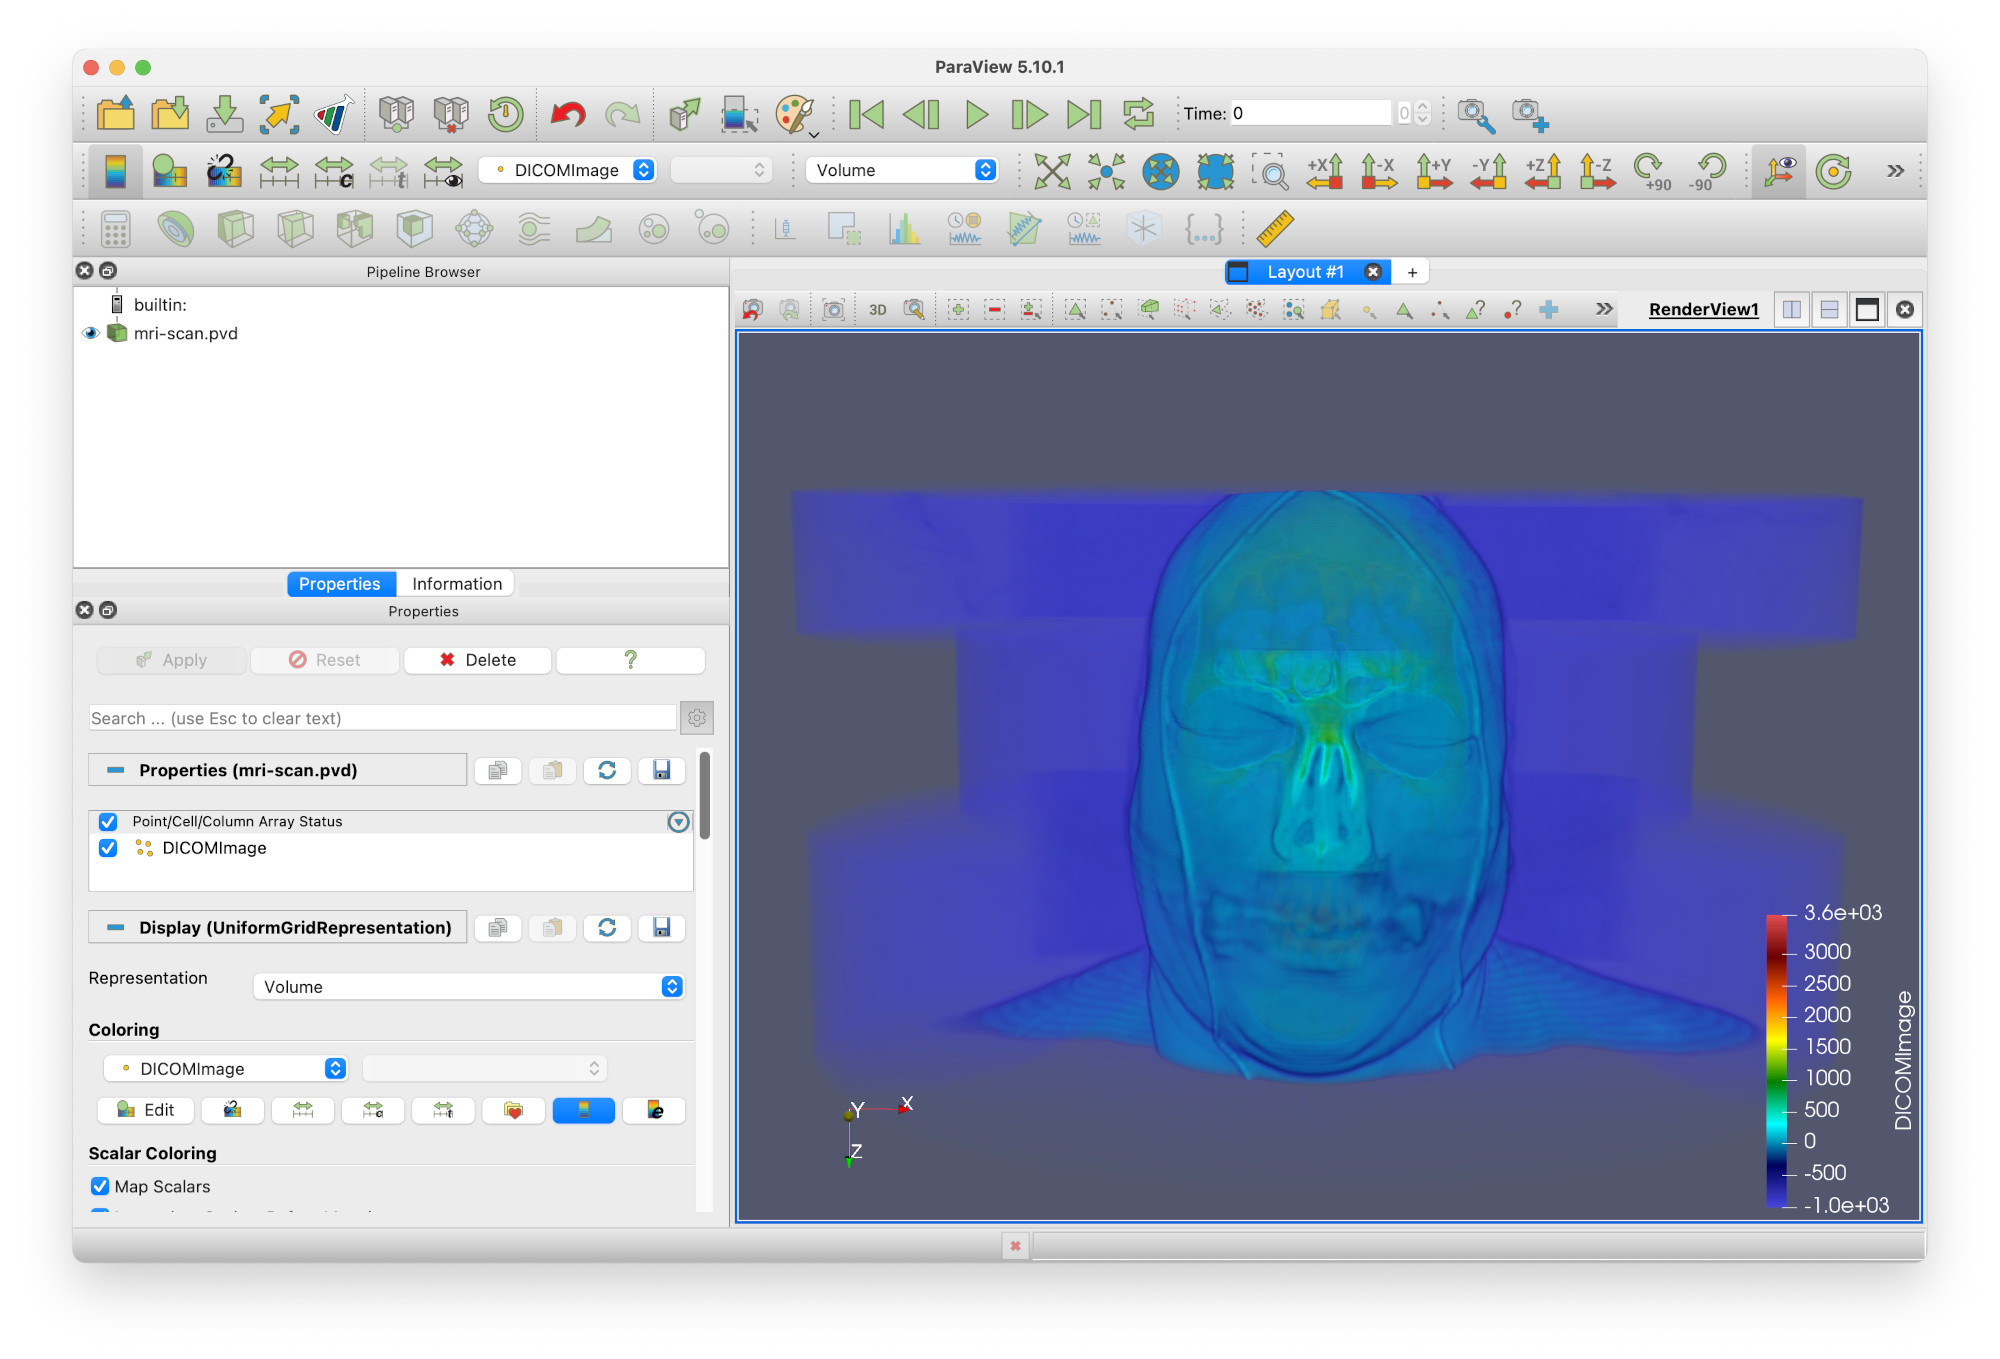
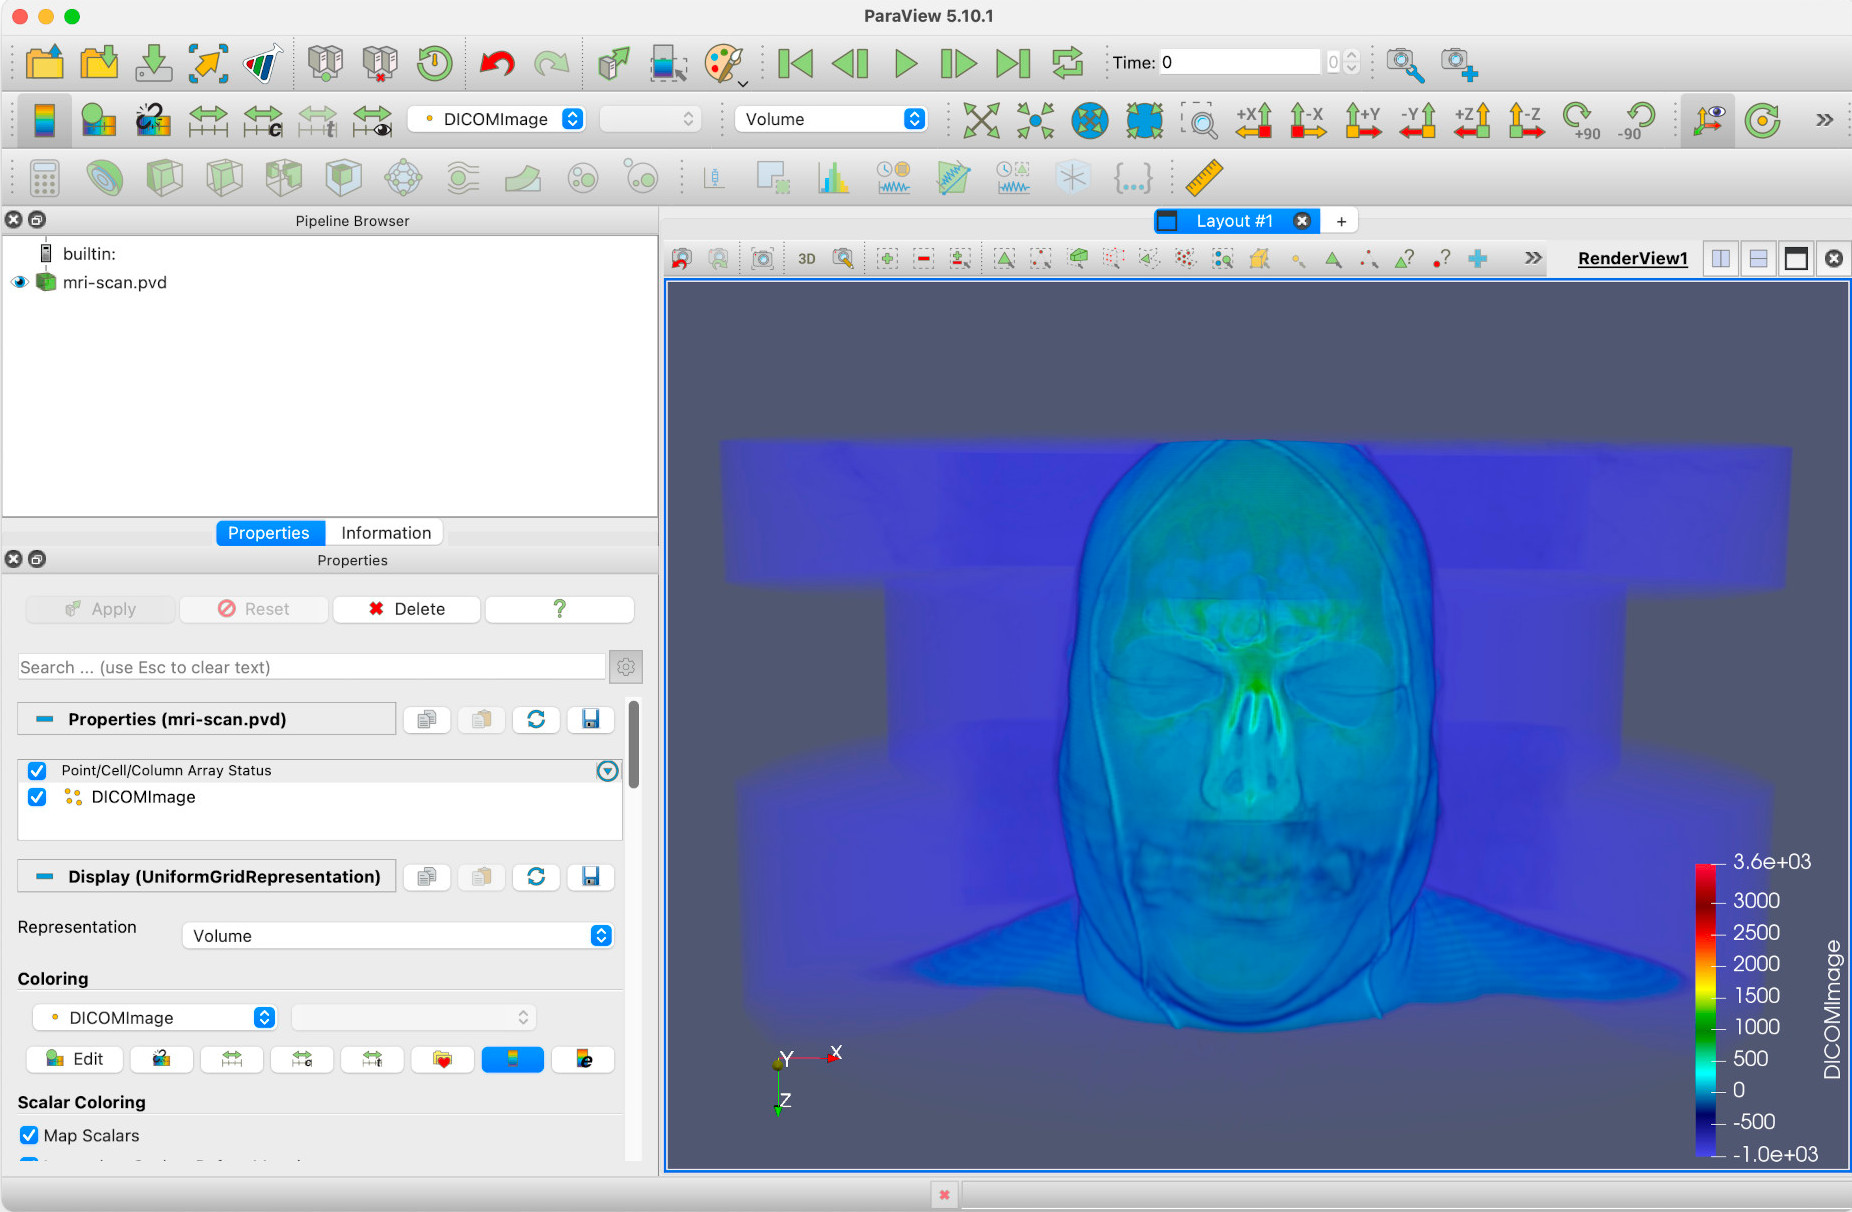
Tidying up on image widths.

diff --git a/_episodes/06-work-with-data-introduction.md b/_episodes/06-work-with-data-introduction.md
@@ -25,14 +25,14 @@ You should see a wireframe box. We'll need to change the rendering to
 **Volume**. In the toolbar, you'll see a drop-down menu that currently says
 **Outline**. Select **Volume** from this menu.
 
-![MRI scan volume selected]({{ page.root }}/fig/mri-volume-selected.jpg){: width="85%" }
+![MRI scan volume selected]({{ page.root }}/fig/mri-volume-selected.jpg){: width="95%" }
 
 Zooming in a bit, you should have a view of the head clearly. Changing the
 colormap to **Rainbow Desaturated** (See the 'Introducing filters' episode,
 under *Changing the colormap*), and turning on the colormap legend, you
 should see something similar to this.
 
-![MRI with rainbow desaturated colormap]({{ page.root }}/fig/mri-colormap-legend.jpg){: width="85%" }
+![MRI with rainbow desaturated colormap]({{ page.root }}/fig/mri-colormap-legend.jpg){: width="95%" }
 
 As the render type *Volume* suggests, this is a full volumetric render of
 3D data. DICOM, incidentally, stands for *Digital Imaging and Communications
@@ -52,7 +52,7 @@ Let's suppose we want to get the horizontal dimensions of the head above the
 eyebrow. Firstly, we create a **Slice** filter, select **Y Normal**, then click
 **Apply**. 
 
-![MRI first slice]({{ page.root }}/fig/mri-first-slice.jpg){: width="85%" }
+![MRI first slice]({{ page.root }}/fig/mri-first-slice.jpg){: width="95%" }
 
 By clicking and dragging the red horizontal edge of the slice, we can move
 this to above the eyebrows of the head. Do this, and then:
@@ -63,11 +63,11 @@ to **mri-scan.pvd**.
 * Reorient the view to look down on the slice by clicking on the -Z axis
 icon in the toolbar.
 
-![Paraview minus Z axis]({{ page.root }}/fig/paraview-toolbar-minuszaxis.jpg){: width="65%" }
+![Paraview minus Z axis]({{ page.root }}/fig/paraview-toolbar-minuszaxis.jpg){: width="80%" }
 
 Zooming in a bit gives a clearer view in the main window.
 
-![MRI slice main view top down]({{ page.root }}/fig/mri-main-window-slice.jpg){: width="65%" }
+![MRI slice main view top down]({{ page.root }}/fig/mri-main-window-slice.jpg){: width="75%" }
 
 ## Measuring
 
@@ -78,7 +78,7 @@ to measure the cranium.
 Firstly, we make the view 2D. We do this by click on the *3D* button at
 the top of the main viewer window. 
 
-![Main viewer 3D button]({{ page.root }}/fig/mri-3D-button.jpg){: width="45%" }
+![Main viewer 3D button]({{ page.root }}/fig/mri-3D-button.jpg){: width="70%" }
 
 This will change the view to 2D, which makes our next tasks easier. You want
 to zoom in again at this point.
@@ -86,7 +86,7 @@ to zoom in again at this point.
 We want to measure the width of the cranium in the X direction. We can do
 this, and more, by adding a **Plot Over Line** filter.
 
-![Paraview line filter]({{ page.root }}/fig/mri-line-dialog.jpg){: width="55%" }
+![Paraview line filter]({{ page.root }}/fig/mri-line-dialog.jpg){: width="75%" }
 
 This will give us a matrix of values to enter the start and end points of the
 line.
@@ -96,7 +96,7 @@ be within the limits of the skull slice.
 * In particular, the z-coordinates should be just above the slice.
 * Click **Apply**.
 
-![MRI line source]({{ page.root }}/fig/mri-line-source.jpg){: width="85%" }
+![MRI line source]({{ page.root }}/fig/mri-line-source.jpg){: width="95%" }
 
 (You'll note a line graph has appeared on the right hand side. We'll get to
 this later.)
@@ -104,7 +104,7 @@ this later.)
 We're now going to move the ends of the line to the widest part of the skull.
 You will need to click **Apply** once you have done so.
 
-![MRI width profile]({{ page.root }}/fig/mri-width-profile.jpg){: width="85%" }
+![MRI width profile]({{ page.root }}/fig/mri-width-profile.jpg){: width="95%" }
 
 We can now see that under **Line Parameters** the width (here, length of line)
 is 135.803 units. But we can get more information than that.
@@ -119,12 +119,12 @@ of the line.
 This is data we can export for use elsewhere. First, we have to click on
 *PlotOverLine1* within the Pipeline browser.
 
-![MRI plot over line pipeline browser]({{ page.root }}/fig/mri-pipeline-browser.jpg){: width="35%" }
+![MRI plot over line pipeline browser]({{ page.root }}/fig/mri-pipeline-browser.jpg){: width="55%" }
 
 Then go into the **File** menu, and select **Save Data**. You'll see this
 dialog window:
 
-![MRI Save Data]({{ page.root }}/fig/mri-save-data.jpg){: width="45%" }
+![MRI Save Data]({{ page.root }}/fig/mri-save-data.jpg){: width="75%" }
 
 Notice that the file type is CSV. This is good: this is what we want. Once
 you have navigate to the directory you want to save in, enter your filename.
@@ -136,7 +136,7 @@ This will open another dialog. We don't need anything but the defauts, so click
 We now have a file we can use elsewhere. For instance, if you open it with
 Excel, you will see somethine like this -
 
-![MRI CSV in Excel]({{ page.root }}/fig/mri-csv-file.jpg){: width="45%" }
+![MRI CSV in Excel]({{ page.root }}/fig/mri-csv-file.jpg){: width="65%" }
 
 The column have been widened to see the column names. They are, in order:
 

diff --git a/_episodes/03-Basic-filters.md b/_episodes/03-Basic-filters.md
@@ -43,7 +43,7 @@ go into the **Common** submenu in the filters, select the **Clip** filter.
 
 Click **Apply**. You should now see a render view similar to this.
 
-![Clip filter initial view]({{ page.root }}/fig/clip-filter-initial.jpg){: width="85%" }
+![Clip filter initial view]({{ page.root }}/fig/clip-filter-initial.jpg){: width="95%" }
 
 Note that in the **Pipeline browser**, *disk_out_ref.ex2* has a greyed-out
 eye icon next to it, and *Clip1* - our clip filter - has a solid black
@@ -59,9 +59,9 @@ chamber. You can do this in one of two ways:
 
 ![Negative X-axis rotate]({{ page.root }}/fig/toolbar-minus-x-rotate.jpg){: width="35%" }
 
-Your view should now look similar to this.
+Which should give you this:
 
-![Chamber internal view]({{ page.root }}/fig/chamber-interal-view.jpg){: width="85%" }
+![Chamber internal view]({{ page.root }}/fig/chamber-interal-view.jpg){: width="95%" }
 
 You can see that fluid speeds up and moves around the sides of the piston,
 which is what we would expect as it moves up and down. By looking at this
@@ -85,7 +85,7 @@ Here we are going to do two things:
 Go into the **Filters/Common** submenu and select *Clip*, then hit the
 **Apply** buttom. You will see the following view.
 
-![Second clip initial view]({{ page.root }}/fig/second-clip-initial-view.jpg){: width="85%" }
+![Second clip initial view]({{ page.root }}/fig/second-clip-initial-view.jpg){: width="95%" }
 
 
 Notice that the colours have changed. This is because the view of the second
@@ -113,7 +113,7 @@ click on the vertical split icon.
 You will see a second pane that asks you to **Create view**. Select **Render
 View**. You will now have two render views in the layout / render view pane:
 
-![Split layout initial view]({{ page.root }}/fig/split-layout-initial-view.jpg){: width="85%" }
+![Split layout initial view]({{ page.root }}/fig/split-layout-initial-view.jpg){: width="95%" }
 
 The second render view is empty: this is because both filters are displaying
 in **RenderView1**, none of them are in **RenderView2**. You can also see
@@ -134,7 +134,7 @@ we did for **RenderView1**:
 
 Which gives you this view:
 
-![Split layout pressure duplicate]({{ page.root }}/fig/split-layout-pressure-duplicate.jpg){: width="85%" }
+![Split layout pressure duplicate]({{ page.root }}/fig/split-layout-pressure-duplicate.jpg){: width="95%" }
 
 
 But hang on here - we are seeing *two* identical views of the pressure field!
@@ -154,7 +154,7 @@ We can see that both **velocity** and **pressure** are visible in
 should fade out. We can now have two render views, showing velocity and
 pressure side-by-side.
 
-![Split layout velocity and pressure initial view]({{ page.root }}/fig/velocity-and-pressure-initial-split-view.jpg){: width="85%" }
+![Split layout velocity and pressure initial view]({{ page.root }}/fig/velocity-and-pressure-initial-split-view.jpg){: width="95%" }
 
 ### Changing the colourmap
 
@@ -178,7 +178,7 @@ We will do that now.
 
 This will give you the colourmap dialogue:
 
-![Colourmap dialogue window]({{ page.root }}/fig/colourmap-dialogue.jpg){: width="65%" }
+![Colourmap dialogue window]({{ page.root }}/fig/colourmap-dialogue.jpg){: width="75%" }
 
 Here, the **Rainbow Desaturated** colourmap will be chosen, but of course you
 can pick any one. Note, the pull-down menu on the top-right where **Default**
@@ -191,7 +191,7 @@ every colourmap available.
 You should now see that the colourmap for the velocity magnitude in
 **RenderView1** has changed.
 
-![RenderView1 new colourmap]({{ page.root }}/fig/renderview1-new-colourmap.jpg){: width="85%" }
+![RenderView1 new colourmap]({{ page.root }}/fig/renderview1-new-colourmap.jpg){: width="95%" }
 
 
 {% include links.md %}

diff --git a/_episodes/07-work-lots-of-data.md b/_episodes/07-work-lots-of-data.md
@@ -29,7 +29,7 @@ desktop computer.
 
 This involves running Paraview in what is called *client-server* mode.
 
-![Paraview in client-server mode]({{ page.root }}/fig/paraview-client-server.png){: width="65%" }
+![Paraview in client-server mode]({{ page.root }}/fig/paraview-client-server.png){: width="75%" }
 
 The diagram above shows how this works.
 
@@ -50,7 +50,7 @@ server process which the user connects to with their own desktop Paraview.
 On the Paraview download page, if you click on the Linux tab, you should see
 something similar to the following (may have to you scroll down slightly):
 
-![Paraview download headless]({{ page.root }}/fig/paraview-download-headless.jpg){: width="65%" }
+![Paraview download headless]({{ page.root }}/fig/paraview-download-headless.jpg){: width="90%" }
 
 By default you should go for an **osmesa** version. This does not require
 a GPU to operate. If you have a cluster with GPUs, you can try an **egl**
@@ -80,11 +80,9 @@ which will run for 3 hours and uses 40 cores.
 #SBATCH --time=3:0:0
 #SBATCH --ntasks=40
 #SBATCH --mem-per-cpu=2G
-#SBATCH --exclusive
-#SBATCH -o spara.out
-#SBATCH -e spara.err
+#SBATCH --output=para-%j.out
 
-ncores=40
+ncores=$SLURM_NTASKS
 
 portnum=5002
 paraver=5.10.1
@@ -94,7 +92,7 @@ echo "Starting Paraview headless servers on port $portnum"
 paradir=$HOME/local/paraview/ParaView-5.10.1-osmesa-MPI-Linux-Python3.9-x86_64
 parabin=$paradir/bin
 
-export LD_LIBRARY_PATH=$mesadir/lib:$paradir/lib/paraview-$paraver:$LD_LIBRARY_PATH
+export LD_LIBRARY_PATH=$paradir/lib/paraview-$paraver:$LD_LIBRARY_PATH
 export PATH=$parabin:$PATH
 export PYTHONPATH=$paradir/lib/paraview-$paraver/site-packages:$PYTHONPATH
 
@@ -111,10 +109,10 @@ echo "Paraview finished."
 > - In this case, we have installed Paraview under **$HOME/local/paraview/ParaView-5.10.1-osmesa-MPI-Linux-Python3.9-x86_64**. You may want to change
 **paradir** so if you install to another directory.
 > - Change **paraver** to match the version you use.
-> - If 40 cores are insufficient, you may need to change **ncores** to something
-larger
+> - If 40 cores are insufficient, you may need to change **ntasks** to something larger.
 > - If you are not using Slurm as a scheduler, you will need to change the
 formatting, and the Slurm batch directives (**#SBATCH**).
+> - If your cluster has nodes with **M** cores each, make sure **ntasks** is a multiple of **M**.
 {: .callout}
 
 We will be running on 40 cores, which is sufficient for many data sets.
@@ -165,17 +163,17 @@ scheduler has allocated your Paraview job to.
 Now we can fire up Paraview on our desktop. If you select **Connect** under
 the **File** menu, you should see this dialog:
 
-![Paraview-connect-dialog]({{ page.root }}/fig/paraview-connect-dialog.jpg){: width="45%" }
+![Paraview-connect-dialog]({{ page.root }}/fig/paraview-connect-dialog.jpg){: width="65%" }
 
 We want to click on **Add Server**. This will give the **Edit Server Configuration** dialog.
 
-![Paraview connect configuration]({{ page.root }}/fig/paraview-connect-server.jpg){: width="45%" }
+![Paraview connect configuration]({{ page.root }}/fig/paraview-connect-server.jpg){: width="55%" }
 
 Change the name to something convenient, and the port to **5002**, then click
 **Configure**. This gives a further dialog on launch options - just click
 **Save**. Now we can choose a server to connect to:
 
-![Paraview choose server dialog]({{ page.root }}/fig/paraview-choose-server.jpg){: width="45%" }
+![Paraview choose server dialog]({{ page.root }}/fig/paraview-choose-server.jpg){: width="65%" }
 
 Here, we want to select the server connection we've just created, and hit
 **Connect**. This may take a few moments.

diff --git a/_episodes/02-Opening-a-file.md b/_episodes/02-Opening-a-file.md
@@ -17,7 +17,7 @@ keypoints:
 > Paraview can be extremely demanding of your computer's memory, especially
 on large data sets.
 >
-> **Please close down any unnecessary any unnecessary programs** such as web browsers and office software before proceeding.
+> **Please close down any unnecessary any unnecessary programs** such as additional browser windows/tabs and office software before proceeding.
 > If you do not, Paraview may run very slowly.
 {: .caution}
 
@@ -35,7 +35,7 @@ folder, ie.
 
 Once started, you should see the Paraview application Window:
 
-![Paraview main window]({{ page.root }}/fig/paraview-main-window.jpg){: width="75%" }
+![Paraview main window]({{ page.root }}/fig/paraview-main-window.jpg){: width="100%" }
 
 The four main sections of the application window are highlighed above.
 
@@ -82,19 +82,20 @@ are at the top of the main Paraview window, above the toolbar.
 Paraview can import many types of data file formats. Here's a non-exhaustive
 list:
 
-![Paraview file formats]({{ page.root }}/fig/paraview-file-formats.jpg){: width="65%" }
+![Paraview file formats]({{ page.root }}/fig/paraview-file-formats.jpg){: width="95%" }
 
 <p> We are going to open one of the tutorial data files that you have unarchived onto your desktop. If we click on the *open file* icon&nbsp;<img src="{{ page.root }}/fig/paraview-open-file.jpg" height=18pt> </p>
 
 We get to the open file dialogue -
 
-![Open file dialogue]({{ page.root }}/fig/paraview-open-file-dialalogue.jpg){: width="70%" }
+![Open file dialogue]({{ page.root }}/fig/paraview-open-file-dialalogue.jpg){: width="80%" }
 
 Click on **Desktop**, then **acenet-paraview-tutorial**, then
 **disk_out_ref.ex2**. Click the **Apply** button, and you should now have
 a view similar to this.
 
-![First Paraview example, top view]({{ page.root }}/fig/paraview-ex0-firstview.jpg){: width="80%" }
+![First Paraview example, top view]({{ page.root }}/fig/paraview-ex0-firstview.jpg){: width="95%" }
+
 
 ## Information about the data file
 
@@ -109,6 +110,7 @@ beside them indicate they are enabled for processing.
 In the **Sets** sub-pane (you may need to scroll down with the mouse wheel)
 there are nodes and surface lists. If we deselect the block in **Block Arrays**
 we can select individual surfaces we would like to view.
+
 
 ## Manipulating the view
 

diff --git a/_episodes/05-resuming.md b/_episodes/05-resuming.md
@@ -22,14 +22,14 @@ navigate to where the state was saved, and select the state file you want to
 load, then clock **Ok**. In this case, the state file is at
 **Desktop/acenet-paraview-examples/workforlater.pvsm**.
 
-![load state dialogue window]({{ page.root }}/fig/load-state-dialogue.jpg){: width="65%" }
+![load state dialogue window]({{ page.root }}/fig/load-state-dialogue.jpg){: width="75%" }
 
 This will give a second dialogue, named **Load State Options**. We will return
 to this later, but we can ignore it for now, as just click on **Ok**.
 
 You should now have the original session, which you saved earlier.
 
-![RenderView1 new colourmap]({{ page.root }}/fig/renderview1-new-colourmap.jpg){: width="85%" }
+![RenderView1 new colourmap]({{ page.root }}/fig/renderview1-new-colourmap.jpg){: width="95%" }
 
 You can continue using the session as you were before.
 
@@ -60,14 +60,14 @@ scratch and load in your copied session on this new system.
 We will start from scratch. Go into the **Edit** menu and select the
 **Reset Session** item.
 
-![Edit menu reset session]({{ page.root }}/fig/edit-menu-reset-session.jpg){: width="25%" }
+![Edit menu reset session]({{ page.root }}/fig/edit-menu-reset-session.jpg){: width="35%" }
 
 For this lesson, the state file and data file have been copied to
 *Desktop/acenet-paraview-examples/somewhere-else/* to simulate the new
 computer we are opening our files on. We select the **Load State** item
 in the **File** menu, and select *workforlater.pvsm*, then click on **Ok**.
 
-![Load state new computer]({{ page.root }}/fig/load-state-new-pc.jpg){: width="65%" }
+![Load state new computer]({{ page.root }}/fig/load-state-new-pc.jpg){: width="70%" }
 
 This takes you to the **Load State Options** dialogue. Here, we are going to
 change the option. In the pull-down menu, there are three options:

diff --git a/_episodes/04-Saving-your-work.md b/_episodes/04-Saving-your-work.md
@@ -26,13 +26,13 @@ You need to find the **File** menu and click on the **Save State** item. On
 Windows or Linux, this will be at the top of the application window, whereas
 on MacOS this will be at the top of the screen in the application menu:
 
-![File menu with save state selected]({{ page.root }}/fig/file-menu-save-state.jpg){: width="45%" }
+![File menu with save state selected]({{ page.root }}/fig/file-menu-save-state.jpg){: width="60%" }
 
 Paraview will show the save state dialogue. Here, the state file
 *workforlater.pvsm* will be saved to *Desktop/acenet-paraview-examples/*, but
 you can save the state file anywhere you like.
 
-![Save state dialogue window]({{ page.root }}/fig/save-state-dialogue.jpg){: width="65%" }
+![Save state dialogue window]({{ page.root }}/fig/save-state-dialogue.jpg){: width="75%" }
 
 Unless you get an error message, your Paraview state should now be saved.
 If you're feeling brave, you can now close Paraview.
